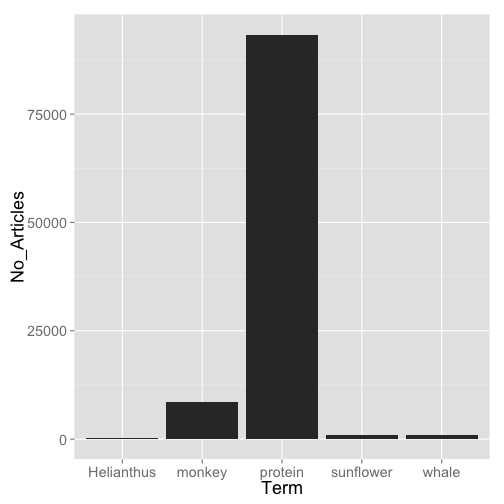
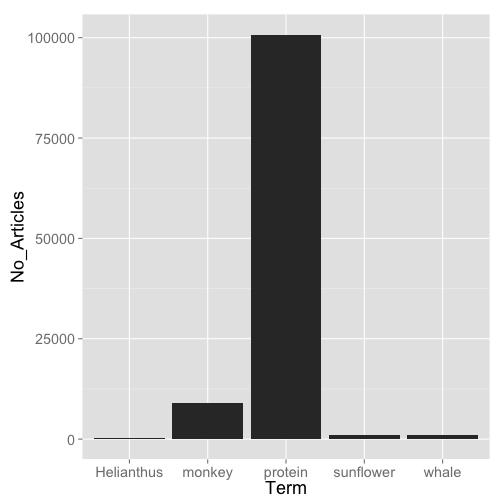
updated readme

diff --git a/README.md b/README.md
@@ -11,7 +11,7 @@ rplos
 
 ## Install
 
-You can get this package at CRAN [here](http://cran.r-project.org/web/packages/rplos/), or install it within R by doing
+You can get this package at CRAN [here](http://cran.rstudio.com/package=rplos), or install it within R by doing
 
 
 ```r
@@ -43,7 +43,7 @@ rplos tutorial at rOpenSci website [here](http://ropensci.org/tutorials/rplos_tu
 
 PLoS API documentation [here](http://api.plos.org/)
 
-Crossref API documentation [here](https://github.com/CrossRef/rest-api-doc/blob/master/rest_api.md), [here](http://crosstech.crossref.org/2014/04/%E2%99%AB-researchers-just-wanna-have-funds-%E2%99%AB.html), and [here](http://help.crossref.org/#home). Note that we are working on a new package [rcrossref](https://github.com/ropensci/rcrossref) ([on CRAN](http://cran.r-project.org/web/packages/rcrossref/index.html)) with a much fuller implementation of R functions for all Crossref endpoints. 
+Crossref API documentation [here](https://github.com/CrossRef/rest-api-doc/blob/master/rest_api.md), [here](http://crosstech.crossref.org/2014/04/%E2%99%AB-researchers-just-wanna-have-funds-%E2%99%AB.html), and [here](http://help.crossref.org/#home). Note that we are working on a new package [rcrossref](https://github.com/ropensci/rcrossref) ([on CRAN](http://cran.rstudio.com/package=rcrossref)) with a much fuller implementation of R functions for all Crossref endpoints.
 
 ## Quick start
 
@@ -56,7 +56,7 @@ Search for the term ecology, and return id (DOI) and publication date, limiting 
 searchplos('ecology', 'id,publication_date', limit = 5)
 #> $meta
 #>   numFound start maxScore
-#> 1    25382     0       NA
+#> 1    27732     0       NA
 #> 
 #> $data
 #>                                                        id
@@ -81,15 +81,15 @@ searchplos(q="*:*", fl='id', fq=list('cross_published_journal_key:PLoSONE',
    'doc_type:full'), limit=5)
 #> $meta
 #>   numFound start maxScore
-#> 1   121044     0       NA
+#> 1   133446     0       NA
 #> 
 #> $data
 #>                             id
-#> 1 10.1371/journal.pone.0074638
-#> 2 10.1371/journal.pone.0074637
-#> 3 10.1371/journal.pone.0060237
-#> 4 10.1371/journal.pone.0074528
-#> 5 10.1371/journal.pone.0074552
+#> 1 10.1371/journal.pone.0031384
+#> 2 10.1371/journal.pone.0031385
+#> 3 10.1371/journal.pone.0107441
+#> 4 10.1371/journal.pone.0000339
+#> 5 10.1371/journal.pone.0046739
 ```
 
 Query to get some PLOS article-level metrics, notice difference between two outputs
@@ -101,20 +101,20 @@ out_sorted <- searchplos(q="*:*", fl=c('id','counter_total_all','alm_twitterCoun
    fq='doc_type:full', sort='counter_total_all desc')
 head(out$data)
 #>                             id alm_twitterCount counter_total_all
-#> 1 10.1371/journal.pone.0074638                3               784
-#> 2 10.1371/journal.pone.0074637                0               631
-#> 3 10.1371/journal.pone.0060237                0               811
-#> 4 10.1371/journal.ppat.1000789                0              4804
-#> 5 10.1371/journal.ppat.1000586                0              6324
-#> 6 10.1371/journal.pone.0074528                0              1054
+#> 1 10.1371/journal.pone.0031384                0              4036
+#> 2 10.1371/journal.pone.0031385                0              2483
+#> 3 10.1371/journal.pone.0107441                4               794
+#> 4 10.1371/journal.pone.0000339                0              4978
+#> 5 10.1371/journal.pone.0046739                0              1480
+#> 6 10.1371/journal.pone.0061900                0              1615
 head(out_sorted$data)
 #>                             id alm_twitterCount counter_total_all
-#> 1 10.1371/journal.pmed.0020124             1768           1061691
-#> 2 10.1371/journal.pmed.0050045              116            330846
-#> 3 10.1371/journal.pone.0007595              197            321260
-#> 4 10.1371/journal.pone.0033288               39            307543
-#> 5 10.1371/journal.pone.0069841              820            298973
-#> 6 10.1371/journal.pone.0044864               87            239859
+#> 1 10.1371/journal.pmed.0020124             1769           1110803
+#> 2 10.1371/journal.pmed.0050045              116            336537
+#> 3 10.1371/journal.pone.0007595              197            328552
+#> 4 10.1371/journal.pone.0069841              820            316100
+#> 5 10.1371/journal.pone.0033288               39            308133
+#> 6 10.1371/journal.pone.0044864               87            240407
 ```
 
 A list of articles about social networks that are popular on a social network
@@ -130,16 +130,16 @@ searchplos(q="*:*",fl=c('id','alm_twitterCount'),
 #> 
 #> $data
 #>                              id alm_twitterCount
-#> 1  10.1371/journal.pmed.1001772              297
-#> 2  10.1371/journal.pone.0069841              820
-#> 3  10.1371/journal.pone.0073791              782
-#> 4  10.1371/journal.pbio.1001535             1669
-#> 5  10.1371/journal.pcbi.1003789             1080
-#> 6  10.1371/journal.pone.0090315              402
-#> 7  10.1371/journal.pone.0064417              144
-#> 8  10.1371/journal.pone.0110329              183
-#> 9  10.1371/journal.pone.0069215              209
-#> 10 10.1371/journal.pone.0064841              120
+#> 1  10.1371/journal.pone.0069841              820
+#> 2  10.1371/journal.pone.0073791              782
+#> 3  10.1371/journal.pbio.1001535             1670
+#> 4  10.1371/journal.pone.0090315              402
+#> 5  10.1371/journal.pcbi.1003858              272
+#> 6  10.1371/journal.pone.0064841              123
+#> 7  10.1371/journal.pcbi.1003789             1080
+#> 8  10.1371/journal.pone.0065774              107
+#> 9  10.1371/journal.pone.0059030              216
+#> 10 10.1371/journal.pone.0110329              184
 ```
 
 Show all articles that have these two words less then about 15 words apart
@@ -149,7 +149,7 @@ Show all articles that have these two words less then about 15 words apart
 searchplos(q='everything:"sports alcohol"~15', fl='title', fq='doc_type:full', limit=3)
 #> $meta
 #>   numFound start maxScore
-#> 1       64     0       NA
+#> 1       70     0       NA
 #> 
 #> $data
 #>                                                                                                                                                                                                     title
@@ -165,7 +165,7 @@ Narrow results to 7 words apart, changing the ~15 to ~7
 searchplos(q='everything:"sports alcohol"~7', fl='title', fq='doc_type:full', limit=3)
 #> $meta
 #>   numFound start maxScore
-#> 1       29     0       NA
+#> 1       32     0       NA
 #> 
 #> $data
 #>                                                                                                                                                                                                     title
@@ -182,15 +182,15 @@ searchplos(q='*:*', fl=c('id','article_type'),
    fq=list('-article_type:correction','-article_type:viewpoints'), limit=5)
 #> $meta
 #>   numFound start maxScore
-#> 1  1190889     0       NA
+#> 1  1303531     0       NA
 #> 
 #> $data
-#>                                        id     article_type
-#> 1            10.1371/journal.pone.0074638 Research Article
-#> 2      10.1371/journal.pone.0074638/title Research Article
-#> 3   10.1371/journal.pone.0074638/abstract Research Article
-#> 4 10.1371/journal.pone.0074638/references Research Article
-#> 5       10.1371/journal.pone.0074638/body Research Article
+#>                                          id     article_type
+#> 1        10.1371/journal.pone.0123754/title Research Article
+#> 2     10.1371/journal.pone.0123754/abstract Research Article
+#> 3   10.1371/journal.pone.0123754/references Research Article
+#> 4         10.1371/journal.pone.0123754/body Research Article
+#> 5 10.1371/journal.pone.0123754/introduction Research Article
 ```
 
 ### Faceted search
@@ -205,20 +205,20 @@ facetplos(q='alcohol', facet.field=c('journal','subject'), facet.limit=5)
 #> 
 #> $facet_fields
 #> $facet_fields$journal
-#>                                 X1     X2
-#> 1                         plos one 972714
-#> 2                    plos genetics  42377
-#> 3                   plos pathogens  36842
-#> 4       plos computational biology  30967
-#> 5 plos neglected tropical diseases  26744
+#>                                 X1      X2
+#> 1                         plos one 1079461
+#> 2                    plos genetics   44924
+#> 3                   plos pathogens   39263
+#> 4       plos computational biology   32788
+#> 5 plos neglected tropical diseases   29477
 #> 
 #> $facet_fields$subject
 #>                              X1      X2
-#> 1     biology and life sciences 1150509
-#> 2  medicine and health sciences  876702
-#> 3 research and analysis methods  744342
-#> 4                  biochemistry  565308
-#> 5                  cell biology  513774
+#> 1     biology and life sciences 1250443
+#> 2  medicine and health sciences  958649
+#> 3 research and analysis methods  798167
+#> 4                  biochemistry  617815
+#> 5                  cell biology  550702
 #> 
 #> 
 #> $facet_dates
@@ -245,17 +245,17 @@ facetplos(q='*:*', url=url, facet.range='counter_total_all',
 #> 
 #> $facet_ranges
 #> $facet_ranges$counter_total_all
-#>    X1  X2
-#> 1   5  17
-#> 2  15  30
-#> 3  25  24
-#> 4  35  92
-#> 5  45 131
-#> 6  55 217
-#> 7  65 243
-#> 8  75 401
-#> 9  85 327
-#> 10 95 505
+#>    X1   X2
+#> 1   5  160
+#> 2  15  399
+#> 3  25  462
+#> 4  35  605
+#> 5  45  620
+#> 6  55  998
+#> 7  65  908
+#> 8  75 1014
+#> 9  85 1027
+#> 10 95  941
 ```
 
 ### Highlight searches
@@ -322,7 +322,7 @@ xpathSApply(xmlParse(out$`10.1371/journal.pone.0086169`), "//abstract", xmlValue
 
 ### Search within a field
 
-There are a series of convience functions for searching within sections of articles. 
+There are a series of convience functions for searching within sections of articles.
 
 * `plosauthor()`
 * `plosabstract()`
@@ -337,23 +337,23 @@ For example:
 plossubject(q='marine ecology',  fl = c('id','journal'), limit = 10)
 #> $meta
 #>   numFound start maxScore
-#> 1     2250     0       NA
+#> 1     2345     0       NA
 #> 
 #> $data
 #>                                                     id  journal
-#> 1                         10.1371/journal.pone.0022881 PLoS ONE
-#> 2                   10.1371/journal.pone.0022881/title PLoS ONE
-#> 3                10.1371/journal.pone.0022881/abstract PLoS ONE
-#> 4              10.1371/journal.pone.0022881/references PLoS ONE
-#> 5                    10.1371/journal.pone.0022881/body PLoS ONE
-#> 6            10.1371/journal.pone.0022881/introduction PLoS ONE
-#> 7  10.1371/journal.pone.0022881/results_and_discussion PLoS ONE
-#> 8   10.1371/journal.pone.0022881/materials_and_methods PLoS ONE
-#> 9  10.1371/journal.pone.0022881/supporting_information PLoS ONE
-#> 10                        10.1371/journal.pone.0021810 PLoS ONE
+#> 1                         10.1371/journal.pone.0028556 PLoS ONE
+#> 2                   10.1371/journal.pone.0028556/title PLoS ONE
+#> 3                10.1371/journal.pone.0028556/abstract PLoS ONE
+#> 4              10.1371/journal.pone.0028556/references PLoS ONE
+#> 5                    10.1371/journal.pone.0028556/body PLoS ONE
+#> 6            10.1371/journal.pone.0028556/introduction PLoS ONE
+#> 7  10.1371/journal.pone.0028556/results_and_discussion PLoS ONE
+#> 8   10.1371/journal.pone.0028556/materials_and_methods PLoS ONE
+#> 9                         10.1371/journal.pone.0021810 PLoS ONE
+#> 10                  10.1371/journal.pone.0021810/title PLoS ONE
 ```
 
-However, you can always just do this in `searchplos()` like `searchplos(q = "subject:science")`. See also the `fq` parameter. The above convenience functions are simply wrappers around `searchplos`, so take all the same parameters. 
+However, you can always just do this in `searchplos()` like `searchplos(q = "subject:science")`. See also the `fq` parameter. The above convenience functions are simply wrappers around `searchplos`, so take all the same parameters.
 
 ### Search by article views
 
@@ -363,11 +363,11 @@ Search with term _marine ecology_, by field _subject_, and limit to 5 results
 ```r
 plosviews(search='marine ecology', byfield='subject', limit=5)
 #>                             id counter_total_all
-#> 5 10.1371/journal.pone.0028556              1285
-#> 2 10.1371/journal.pone.0021810              1523
-#> 3 10.1371/journal.pone.0070647              1580
-#> 4 10.1371/journal.pone.0092590              4411
-#> 1 10.1371/journal.pone.0022881              8022
+#> 3 10.1371/journal.pone.0126253               306
+#> 5 10.1371/journal.pone.0116720              1216
+#> 1 10.1371/journal.pone.0028556              1319
+#> 2 10.1371/journal.pone.0021810              1634
+#> 4 10.1371/journal.pone.0022881              8450
 ```
 
 ### Visualize
@@ -379,11 +379,11 @@ Visualize word use across articles
 plosword(list('monkey','Helianthus','sunflower','protein','whale'), vis = 'TRUE')
 #> $table
 #>   No_Articles       Term
-#> 1        8459     monkey
-#> 2         302 Helianthus
-#> 3         840  sunflower
-#> 4       93342    protein
-#> 5        1054      whale
+#> 1        9075     monkey
+#> 2         347 Helianthus
+#> 3         937  sunflower
+#> 4      100767    protein
+#> 5        1137      whale
 #> 
 #> $plot
 ```
@@ -392,7 +392,7 @@ plosword(list('monkey','Helianthus','sunflower','protein','whale'), vis = 'TRUE'
 
 ## Meta
 
-* Please report any [issues or bugs](https://github.com/ropensci/rplos/issues).
+* Please [report any issues or bugs](https://github.com/ropensci/rplos/issues).
 * License: MIT
 * Get citation information for `rplos` in R doing `citation(package = 'rplos')`
 
